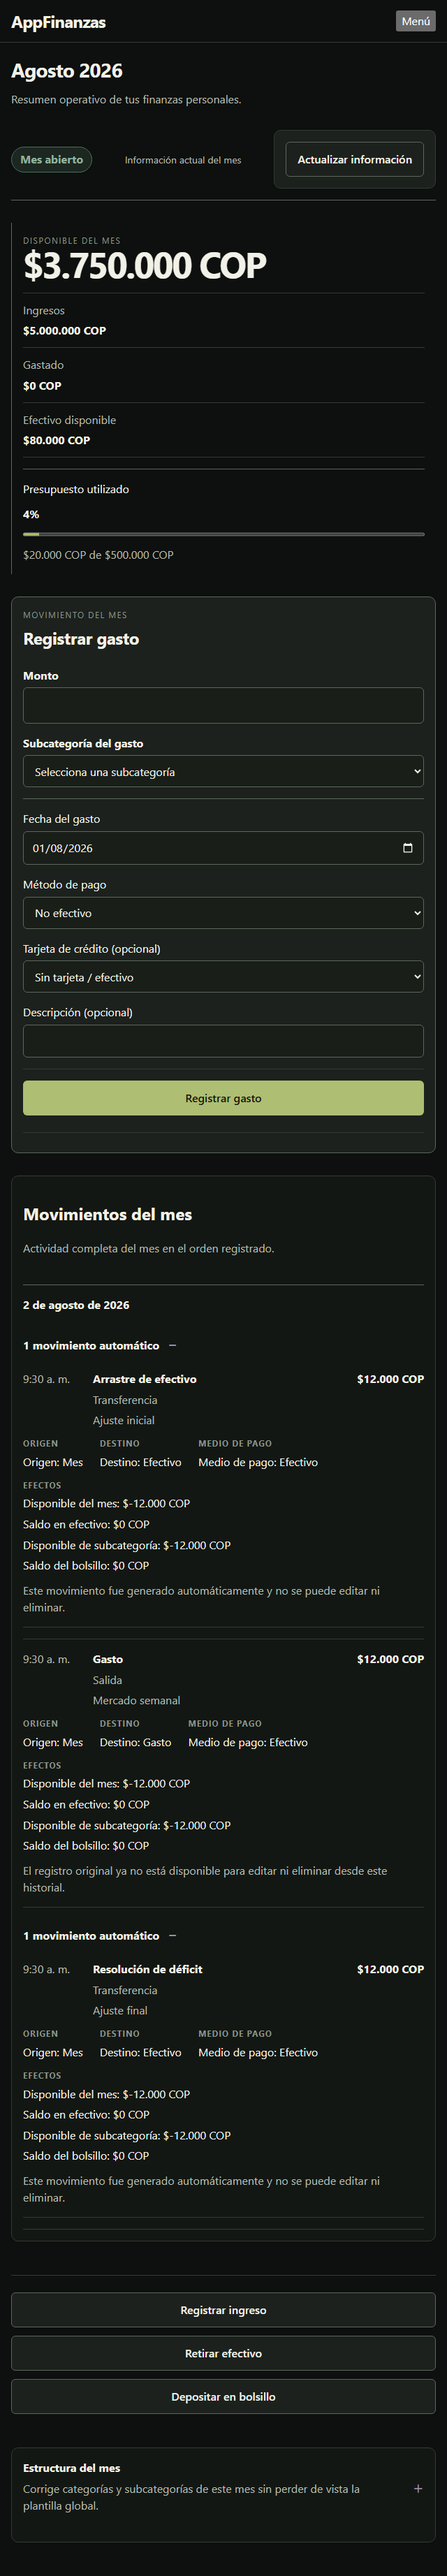
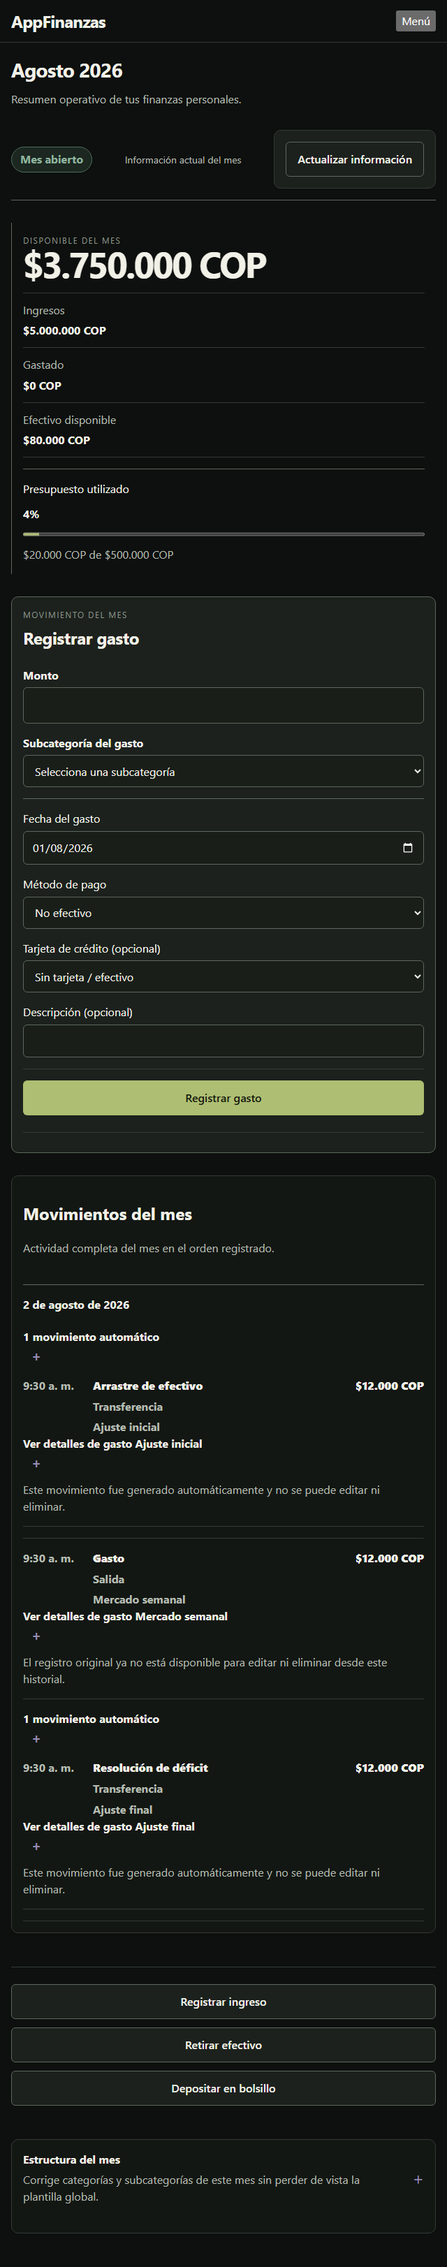
fix(client): verify native ledger details

diff --git a/client/src/features/monthly-cycle/active-month-dashboard/components/MonthlyLedger.tsx b/client/src/features/monthly-cycle/active-month-dashboard/components/MonthlyLedger.tsx
@@ -36,8 +36,7 @@ function LedgerEntry({ actionLabel, entry, identityLabel, isActionable, onDelete
   const actionName = actionLabel?.(entry) ?? entry.metadata.description ?? entryLabel;
   const identity = identityLabel?.(entry);
   return <article className="monthly-ledger-entry" data-entry-key={entry.entryKey}>
-    <div className="monthly-ledger-row"><time dateTime={entry.occurredAt}>{time(entry.occurredAt)}</time><div><strong>{entryLabel}</strong><span>{directionLabels[entry.direction]}</span>{identity ? <span>{identity}</span> : null}<span>{entry.metadata.description ?? entryLabel}</span></div><strong className="monthly-ledger-amount">{money(entry.amount)}</strong></div>
-    <dl className="monthly-ledger-details"><div><dt>Origen</dt><dd>Origen: {entityLabels[entry.source.kind]}</dd></div><div><dt>Destino</dt><dd>Destino: {entityLabels[entry.destination.kind]}</dd></div><div><dt>Medio de pago</dt><dd>Medio de pago: {entry.metadata.paymentMethod === "NON_CASH" ? "No efectivo" : entry.metadata.paymentMethod === "CASH" ? "Efectivo" : "Sin registrar"}</dd></div><div><dt>Efectos</dt><dd>Disponible del mes: {money(entry.balanceEffects.availableMoney)}</dd><dd>Saldo en efectivo: {money(entry.balanceEffects.cashBalance)}</dd><dd>Disponible de subcategoría: {money(entry.balanceEffects.subcategoryAvailable)}</dd><dd>Saldo del bolsillo: {money(entry.balanceEffects.pocketBalance)}</dd></div></dl>
+    <details><summary className="monthly-ledger-disclosure"><div className="monthly-ledger-row"><time dateTime={entry.occurredAt}>{time(entry.occurredAt)}</time><div><strong>{entryLabel}</strong><span>{directionLabels[entry.direction]}</span>{identity ? <span>{identity}</span> : null}<span>{entry.metadata.description ?? entryLabel}</span></div><strong className="monthly-ledger-amount">{money(entry.amount)}</strong></div><span className="monthly-ledger-disclosure-show">Ver detalles de {actionName}</span><span className="monthly-ledger-disclosure-hide">Ocultar detalles de {actionName}</span></summary><dl className="monthly-ledger-details"><div><dt>Origen</dt><dd>Origen: {entityLabels[entry.source.kind]}</dd></div><div><dt>Destino</dt><dd>Destino: {entityLabels[entry.destination.kind]}</dd></div><div><dt>Descripción</dt><dd>Descripción: {entry.metadata.description ?? entryLabel}</dd></div><div><dt>Medio de pago</dt><dd>Medio de pago: {entry.metadata.paymentMethod === "NON_CASH" ? "No efectivo" : entry.metadata.paymentMethod === "CASH" ? "Efectivo" : "Sin registrar"}</dd></div><div><dt>Efectos</dt><dd>Disponible del mes: {money(entry.balanceEffects.availableMoney)}</dd><dd>Saldo en efectivo: {money(entry.balanceEffects.cashBalance)}</dd><dd>Disponible de subcategoría: {money(entry.balanceEffects.subcategoryAvailable)}</dd><dd>Saldo del bolsillo: {money(entry.balanceEffects.pocketBalance)}</dd></div></dl></details>
   {hasAvailableAction ? <div className="monthly-ledger-actions">{onEdit ? <Button onClick={() => onEdit(entry)} type="button" variant="secondary">Editar {actionName}</Button> : null}{onDelete ? <Button onClick={() => onDelete(entry)} type="button" variant="tertiary">Eliminar {actionName}</Button> : null}</div> : <p className="monthly-ledger-read-only">{readOnlyReason(entry, actionable, unavailableActionReason?.(entry))}</p>}
   </article>;
 }

diff --git a/client/src/features/monthly-cycle/active-month-dashboard/components/MonthlyLedger.test.tsx b/client/src/features/monthly-cycle/active-month-dashboard/components/MonthlyLedger.test.tsx
@@ -96,12 +96,24 @@ describe("MonthlyLedger", () => {
     expect(Array.from(ledger.querySelectorAll("[data-ledger-item]")).map((item) => item.getAttribute("data-ledger-item"))).toEqual(["system-a", "expense-b", "system-c"]);
   });
 
-  it("shows complete entry details and only gives eligible records working actions", async () => {
+  it("uses a native details summary and keeps complete details collapsed by default", async () => {
     const user = userEvent.setup();
     const onEdit = vi.fn();
     const onDelete = vi.fn();
     render(<MonthlyLedger days={days} onDelete={onDelete} onEdit={onEdit} status="ready" />);
 
+    const details = document.querySelector<HTMLDetailsElement>(".monthly-ledger-entry details");
+    const disclosure = details?.querySelector("summary");
+    expect(details).toBeInTheDocument();
+    expect(details).not.toHaveAttribute("open");
+    expect(disclosure).toHaveTextContent("Ver detalles de Market groceries");
+    expect(disclosure).not.toHaveAttribute("aria-controls");
+    expect(document.querySelector("time")).toHaveAttribute("dateTime", "2026-08-02T14:30:00.000Z");
+    expect(screen.getByRole("button", { name: "Editar Market groceries" })).toBeInTheDocument();
+    expect(screen.getByRole("button", { name: "Eliminar Market groceries" })).toBeInTheDocument();
+
+    await user.click(disclosure!);
+    expect(details).toHaveAttribute("open");
     expect(screen.getByText("Origen: Mes")).toBeInTheDocument();
     expect(screen.getByText("Destino: Gasto")).toBeInTheDocument();
     expect(screen.getByText("Medio de pago: Efectivo")).toBeInTheDocument();
@@ -109,7 +121,9 @@ describe("MonthlyLedger", () => {
     expect(screen.getByText("Saldo en efectivo: $0 COP")).toBeInTheDocument();
     expect(screen.getByText("Disponible de subcategoría: $-12.000 COP")).toBeInTheDocument();
     expect(screen.getByText("Saldo del bolsillo: $0 COP")).toBeInTheDocument();
-    expect(document.querySelector("time")).toHaveAttribute("dateTime", "2026-08-02T14:30:00.000Z");
+
+    await user.click(disclosure!);
+    expect(details).not.toHaveAttribute("open");
 
     await user.click(screen.getByRole("button", { name: "Editar Market groceries" }));
     await user.click(screen.getByRole("button", { name: "Eliminar Market groceries" }));

diff --git a/client/e2e/monthly-ledger.spec.ts b/client/e2e/monthly-ledger.spec.ts
@@ -48,6 +48,15 @@ test("keeps the canonical ledger usable and contained on a narrow viewport", asy
   await disclosures.nth(1).click();
   await expect(ledgerRegion).toContainText("Ajuste final");
 
+  const ordinaryDetails = ledgerRegion.locator('[data-ledger-item="expense-b"] .monthly-ledger-entry details');
+  const ordinarySummary = ordinaryDetails.locator("summary");
+  await expect(ordinaryDetails).not.toHaveAttribute("open");
+  await ordinarySummary.focus();
+  await expect(ordinarySummary).toBeFocused();
+  await page.keyboard.press("Enter");
+  await expect(ordinaryDetails).toHaveAttribute("open", "");
+  expect((await ordinarySummary.boundingBox())?.height).toBeGreaterThanOrEqual(44);
+
   for (const target of await ledgerRegion.getByRole("button").all()) {
     const box = await target.boundingBox();
     expect(box?.height).toBeGreaterThanOrEqual(44);
@@ -76,4 +85,22 @@ test("reflows expanded ledger content at a 200% viewport equivalent", async ({ p
   }))).toEqual([true, true, true]);
   await ledgerRegion.scrollIntoViewIfNeeded();
   await page.screenshot({ path: "../docs/verification/unified-monthly-ledger-frontend/active-month-200pct.png", fullPage: true });
+});
+
+test("removes ordinary disclosure motion under reduced-motion preferences", async ({ page }) => {
+  await page.emulateMedia({ reducedMotion: "reduce" });
+  await mockMonthlyLedgerContracts(page);
+  await page.goto("/active-month");
+
+  const ledgerRegion = page.getByRole("region", { name: "Movimientos del mes" });
+  const ordinaryDetails = ledgerRegion.locator('[data-ledger-item="expense-b"] .monthly-ledger-entry details');
+  const disclosure = ordinaryDetails.locator("summary");
+  await expect(ordinaryDetails).not.toHaveAttribute("open", { timeout: 15_000 });
+  await disclosure.click();
+  await expect(ordinaryDetails).toHaveAttribute("open", "");
+  await expect(ledgerRegion).toContainText("Origen: Mes");
+  expect(await disclosure.evaluate((element) => {
+    const style = window.getComputedStyle(element);
+    return style.transitionDelay === "0s" && style.transform === "none";
+  })).toBe(true);
 });

diff --git a/client/src/styles.css b/client/src/styles.css
@@ -833,9 +833,13 @@ body { background: var(--color-bg); }
 .monthly-ledger-details dd { margin: 0; }
 .monthly-ledger-actions { display: flex; flex-wrap: wrap; gap: var(--space-2); margin-top: var(--space-3); }
 .monthly-ledger-read-only { margin: var(--space-2) 0 0; }
-.monthly-ledger-disclosure { background: transparent; border: 0; color: var(--color-text); cursor: pointer; font: inherit; font-weight: 650; min-height: 44px; padding: 0; text-align: left; }
+.monthly-ledger-disclosure { background: transparent; border: 0; color: var(--color-text); cursor: pointer; display: grid; font: inherit; font-weight: 650; min-height: 44px; padding: 0; text-align: left; }
+.monthly-ledger-disclosure::-webkit-details-marker { display: none; }
 .monthly-ledger-disclosure::after { color: var(--color-guidance); content: "+"; font-size: 1.25rem; margin-left: var(--space-2); }
-.monthly-ledger-disclosure[aria-expanded="true"]::after { content: "−"; }
+.monthly-ledger-entry details[open] > .monthly-ledger-disclosure::after { content: "−"; }
+.monthly-ledger-disclosure-hide { display: none; }
+.monthly-ledger-entry details[open] > .monthly-ledger-disclosure .monthly-ledger-disclosure-show { display: none; }
+.monthly-ledger-entry details[open] > .monthly-ledger-disclosure .monthly-ledger-disclosure-hide { display: inline; }
 
 @media (max-width: 390px) {
   .monthly-ledger-row { grid-template-columns: minmax(0, 1fr) auto; }
